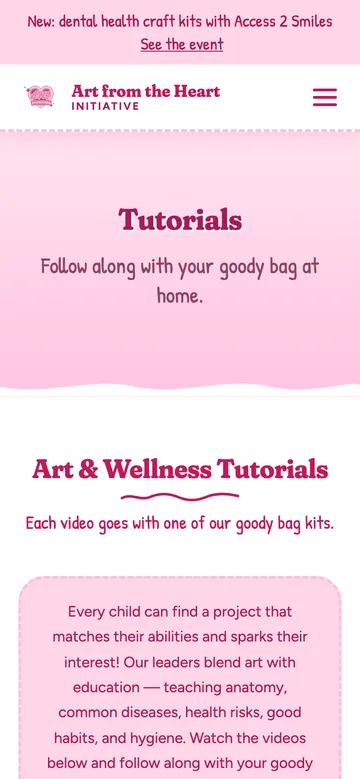
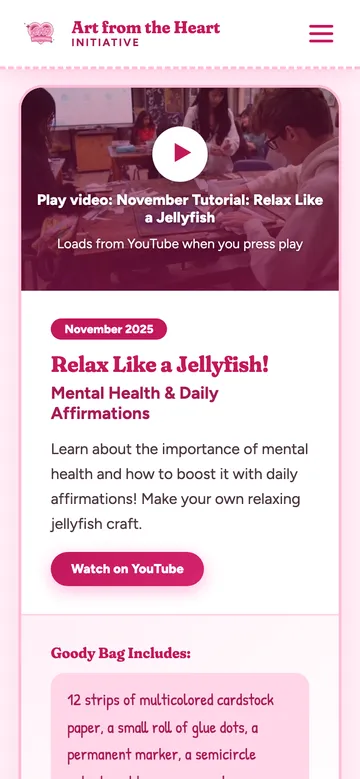
Update Art from the Heart case study after its refresh

diff --git a/index.html b/index.html
@@ -378,21 +378,21 @@
       </div>
       <div>
         <h3>What I built</h3>
-        <p>A custom hand-coded site with its own look: follow-along video tutorials that only load when you press play, a photo history of the club's events, plus leader, partner, research, contact, privacy and accessibility pages.</p>
+        <p>A custom hand-coded site with its own look: follow-along video tutorials that only load when you press play, swipeable photo albums for the club's events, plus leader, partner, research, contact, privacy and accessibility pages.</p>
       </div>
       <div>
         <h3>My role</h3>
-        <p>I'm the club's Website Manager, so I built the site and I still keep it up to date.</p>
+        <p>I'm the club's Website Manager, so I built the site and I still keep it up to date. A November 2026 refresh kept the look and every page, cut the events page from about 2.1 MB to 0.8 MB, and stopped pages from shifting as they load.</p>
       </div>
       <div>
         <h3>Google's test, phone</h3>
         <div class="numbers">
-          <div><b>100</b><span>Speed</span></div>
+          <div><b>99</b><span>Speed</span></div>
           <div><b>100</b><span>Easy to use</span></div>
           <div><b>100</b><span>Google basics</span></div>
-          <div><b>1.0s</b><span>Main content shows</span></div>
+          <div><b>1.1s</b><span>Main content shows</span></div>
         </div>
-        <p class="note">Lighthouse lab test, Nov 2026. Scores vary a little between runs.</p>
+        <p class="note">Google PageSpeed lab test, Nov 2026. Scores vary a little between runs.</p>
       </div>
       <div>
         <a href="https://artfromtheheartinitiative.org" target="_blank" rel="noopener" class="btn btn-gold">Visit the live site</a>
